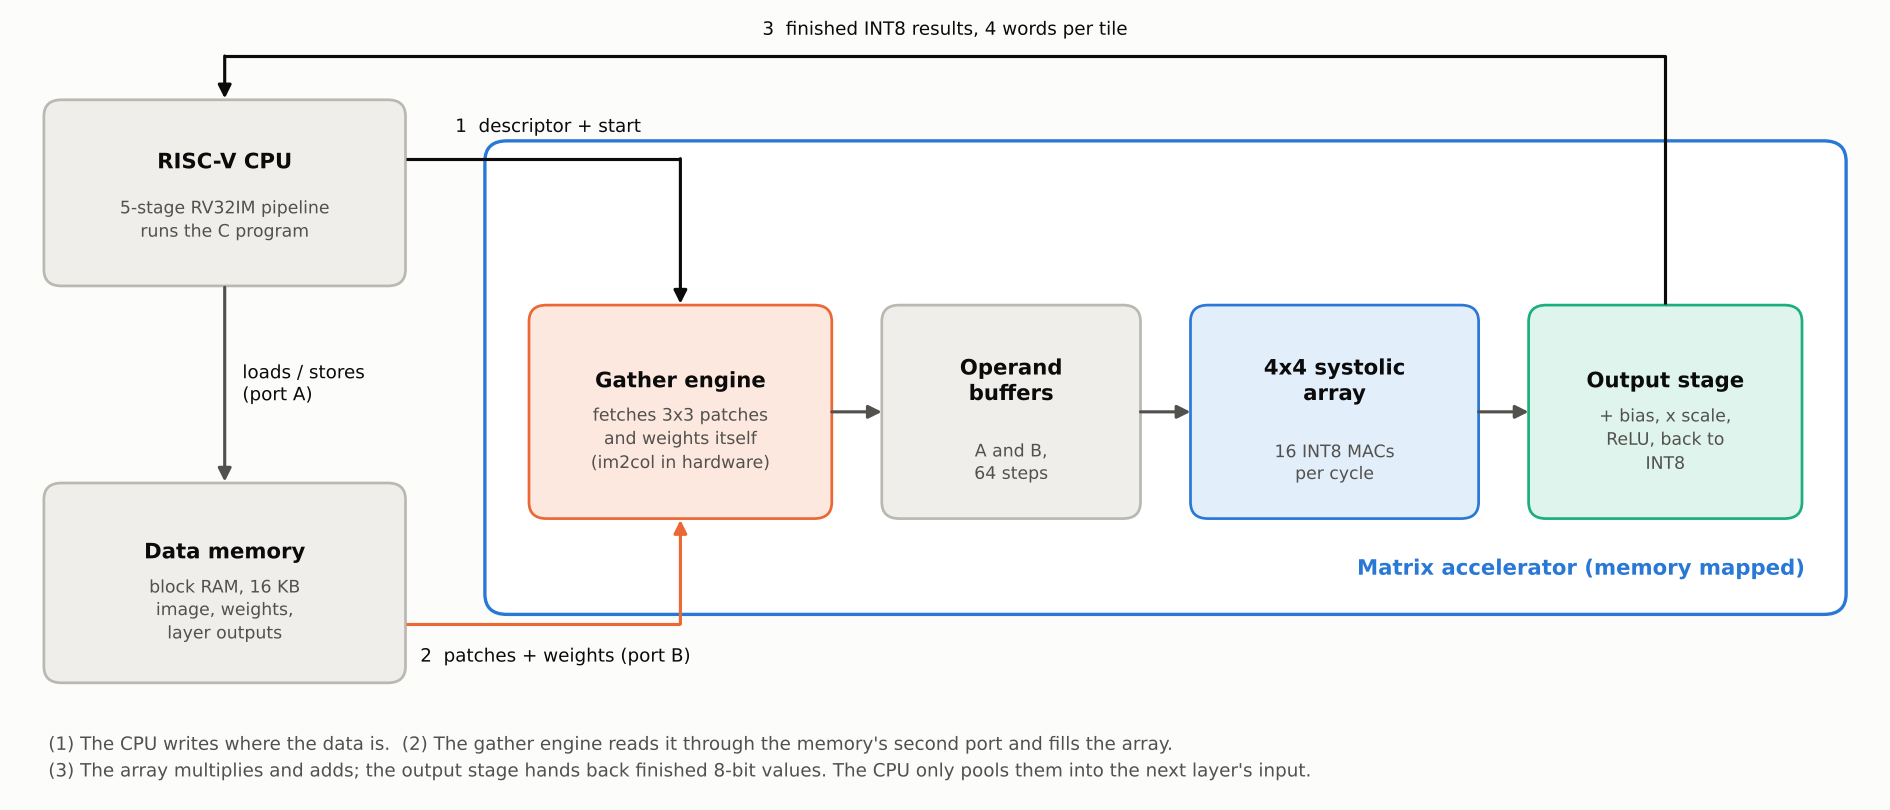
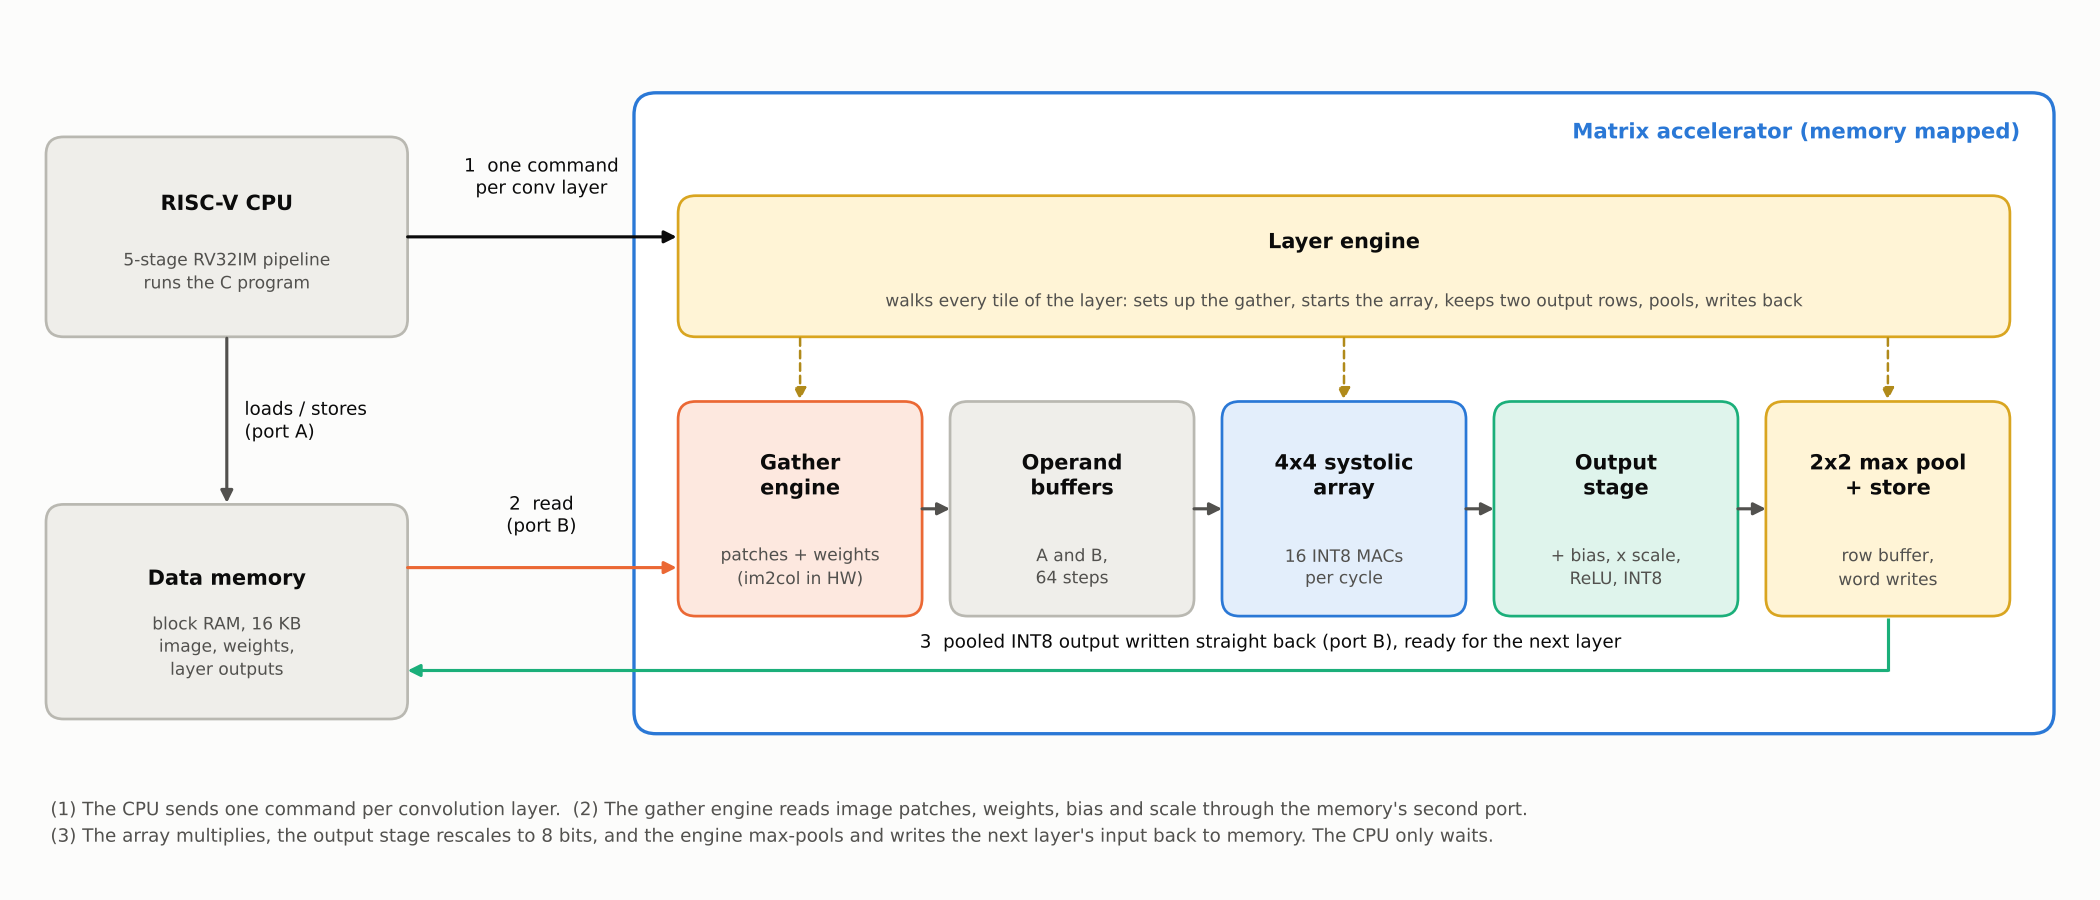
README: layer engine measured on the Basys 3 (26.3x, 1.68 ms per image)
Board output matches RTL simulation cycle for cycle and every score matches
the golden model. Updated the annotated board screenshot, the speedup chart
(layer-engine bar) and the data-flow diagram (layer engine, hardware pooling,
write-back over port B).

diff --git a/README.md b/README.md
@@ -12,7 +12,7 @@ UART console and a UART program loader, so new programs load in under a second w
 rebuilding the bitstream.
 
 Runs a **handwritten-digit recognition neural network** (INT8 CNN, 98.74 % on MNIST) on its own
-**systolic-array accelerator with a hardware gather engine**: **11.4x faster** than the CPU
+**systolic-array accelerator with a hardware layer engine**: **26.3x faster** than the CPU
 alone, measured on the board, with every output bit-identical to a Python golden model.
 
 Hardened into a **SkyWater 130 nm layout** (RTL to GDSII with LibreLane), and verified with two **UVM** environments on Cadence Xcelium (constrained-random programs checked
@@ -23,11 +23,11 @@ IMC), with planted bugs to prove the testbenches catch real failures.
 
 <table>
 <tr>
-<td width="50%"><img src="docs/images/nn/basys3_mnist_uart.png" alt="MNIST on the board"><br><b>A neural network on my CPU, measured on the Basys 3:</b> a small INT8 CNN recognises MNIST digits three ways: CPU only, accelerator fed by the CPU, accelerator with its gather engine. The hardware cycle counter times every layer; the board numbers are identical to RTL simulation and every score matches the Python golden model. <a href="#neural-network-on-the-soc-mnist">Details</a></td>
-<td width="50%"><img src="docs/images/nn/mnist_speedup.png" alt="speedup"><br><b>11.4x faster inference:</b> 44.1 ms per image on the CPU, 3.9 ms with the accelerator (258 images/s at 50 MHz). The first accelerator version was only 4.3x because the CPU spent its time moving data; measuring that is what led to the gather engine.</td>
+<td width="50%"><img src="docs/images/nn/basys3_mnist_uart.png" alt="MNIST on the board"><br><b>A neural network on my CPU, measured on the Basys 3:</b> a small INT8 CNN recognises MNIST digits four ways: CPU only, accelerator fed by the CPU, with its gather engine, and with its layer engine. The hardware cycle counter times every layer; the board numbers are identical to RTL simulation and every score matches the Python golden model. <a href="#neural-network-on-the-soc-mnist">Details</a></td>
+<td width="50%"><img src="docs/images/nn/mnist_speedup.png" alt="speedup"><br><b>26.3x faster inference:</b> 44.1 ms per image on the CPU, 1.68 ms with the accelerator (about 600 images/s at 50 MHz). The first accelerator version was only 4.3x because the CPU spent its time moving data; each step after that came from measuring where the cycles went (gather engine 11.4x, layer engine 26.3x).</td>
 </tr>
 <tr>
-<td colspan="2"><img src="docs/images/nn/accelerator_dataflow.png" alt="accelerator data flow"><br><b>What I built for it:</b> a gather engine that reads the image patches and weights straight from data memory through the block RAM's second port (convolution turned into matrix multiplication, "im2col", in hardware), and an output stage that adds the bias, rescales to 8 bits and applies ReLU. The CPU now only describes where the data is and pools the results.</td>
+<td colspan="2"><img src="docs/images/nn/accelerator_dataflow.png" alt="accelerator data flow"><br><b>What I built for it:</b> a layer engine that runs a whole convolution layer from one command: it drives a gather engine that reads image patches and weights straight from data memory through the block RAM's second port (convolution turned into matrix multiplication, "im2col", in hardware), an output stage that adds the bias, rescales to 8 bits and applies ReLU, and a 2x2 max pool that writes the next layer's input back to memory. The CPU sends one command per layer and waits.</td>
 </tr>
 <tr>
 <td width="50%"><img src="docs/images/asic/chip_full.png" alt="sky130 layout"><br><b>The core as a chip:</b> hardened on SkyWater 130 nm with LibreLane. 0.52 mm², about 18k cells, DRC/LVS clean, timing closed at 20 MHz in all corners. <a href="asic/riscv_cpu/README.md">Layout details</a></td>
@@ -63,8 +63,8 @@ IMC), with planted bugs to prove the testbenches catch real failures.
 | Software | GCC (`-march=rv32im`), linker script, startup code, small console library |
 | FPGA | Basys 3 (Artix-7 XC7A35T): MMCM clocking, UART console, 7-segment display, LEDs, switches, buttons |
 | Program loader | hardware UART loader with checksum: `python sw/load.py COM5 bench` |
-| Accelerator | 4x4 INT8 systolic array (16 MACs/cycle) with a **gather engine** (reads its own operands from data memory: im2col in hardware) and an **output stage** (bias, rescale, ReLU in hardware). 10.5x faster 32x32 matmul |
-| Neural network | INT8 CNN for MNIST (98.74 %), trained in NumPy, bit-exact C on the SoC: **11.4x** faster than the CPU on the board ([details](#neural-network-on-the-soc-mnist)) |
+| Accelerator | 4x4 INT8 systolic array (16 MACs/cycle) with a **layer engine** (one command per conv layer, 2x2 max pool in hardware), a **gather engine** (reads its own operands from data memory: im2col in hardware) and an **output stage** (bias, rescale, ReLU in hardware). 10.5x faster 32x32 matmul |
+| Neural network | INT8 CNN for MNIST (98.74 %), trained in NumPy, bit-exact C on the SoC: **26.3x** faster than the CPU on the board ([details](#neural-network-on-the-soc-mnist)) |
 | ASIC | Hardened on SkyWater 130 nm with LibreLane: 0.52 mm², DRC/LVS clean, timing closed at 20 MHz in all corners ([details](asic/riscv_cpu/README.md)) |
 | Verification | UVM on Xcelium + IMC: 48/48 riscv-tests in UVM, 17/17 regression tests pass, 100% functional coverage, SVA, bug injection |
 
@@ -131,7 +131,7 @@ steps takes K + 6 cycles. Details and design reasoning: [`docs/accelerator_notes
 | CPU + accelerator | 22,806 (**10.5x faster**, results identical) |
 
 About 90 % of the accelerated time is the CPU moving data in and out; the array computes for
-only ~2,400 cycles. That observation led to the gather engine below.
+only ~2,400 cycles. That observation led to the gather and layer engines below.
 
 ## Neural network on the SoC (MNIST)
 
@@ -153,16 +153,16 @@ must produce exactly its scores, bit for bit.
 becomes one row of a matrix A and each filter one column of B, so A x B is the convolution
 ("im2col", the way TPUs and NPUs run CNNs). The array computes 4 pixels x 4 filters at a time.
 
-**Three versions, measured on the Basys 3** (`sw/programs/mnist`, cycles per image from the
+**Four versions, measured on the Basys 3** (`sw/programs/mnist`, cycles per image from the
 hardware counter; identical to RTL simulation):
 
-| Layer | CPU only | Array fed by the CPU | Array + gather engine | Speedup |
-|---|---|---|---|---|
-| conv1 | 1,112,251 | 239,670 | **104,073** | 10.7x |
-| conv2 | 1,061,655 | 251,422 | **80,336** | 13.2x |
-| fully connected | 28,136 | 11,696 | **4,629** | 6.1x |
-| **Total** | **2,206,758** | **507,504 (4.3x)** | **193,754 (11.4x)** | |
-| Per image at 50 MHz | 44.1 ms | 10.2 ms | **3.9 ms (258 images/s)** | |
+| Layer | CPU only | Array fed by the CPU | + gather engine | + layer engine | Speedup |
+|---|---|---|---|---|---|
+| conv1 | 1,110,977 | 239,670 | 104,079 | **22,995** | 48.3x |
+| conv2 | 1,061,259 | 251,422 | 80,333 | **51,545** | 20.6x |
+| fully connected | 28,136 | 11,695 | 4,633 | **4,626** | 6.1x |
+| **Total** | **2,205,089** | 507,502 (4.3x) | 193,762 (11.4x) | **83,881 (26.3x)** | |
+| Per image at 50 MHz | 44.1 ms | 10.2 ms | 3.9 ms | **1.68 ms (about 600 images/s)** | |
 
 **How the speedup was found, step by step:**
 
@@ -175,6 +175,16 @@ hardware counter; identical to RTL simulation):
    second block-RAM port. The CPU writes a descriptor (start address, three nested loop counts
    and byte strides, and the gap between the 4 pixels) and one command; the engine builds the
    im2col patches, loads the weights and starts the run.
+4. **Layer engine (26.3x):** with the gather engine, the CPU still spent most of its time on
+   bookkeeping: one descriptor per tile, reading results back, pooling in software. The layer
+   engine takes one command per convolution layer (input, output, weights, bias, scale and the
+   layer shape) and walks every tile itself: it loads each filter group's bias and scale, issues
+   the gathers, keeps two output rows in a small buffer, max-pools them and writes the pooled
+   INT8 values straight back to data memory, which is the next layer's input.
+
+Where the remaining time goes (layer engine): about 62 % fetching operands, 21 % computing in the
+array, 17 % bookkeeping. conv2's 3x3x8 patch (72 steps) does not fit the 64-step operand
+buffers, so each patch is fetched once per group of 4 filters; bigger buffers are the next step.
 
 **Verification:**
 
@@ -182,11 +192,15 @@ hardware counter; identical to RTL simulation):
   scale. Half of the tiles load through the gather engine, from a memory model with random
   contents, with random descriptors and alignments. 3,000 tiles pass. Three bugs planted in the
   engine are all caught; one was missed at first, which led to a new test case.
-- **Software:** all three C versions match the golden model on all 10,000 test images (on the
+- **Layer engine:** `sw/programs/conv_test` runs 24 convolution layers with random shapes
+  (1 to 21 channels, 4 to 16 filters, rows up to 32 pixels, odd sizes, partial tiles) and random
+  data through the engine and checks every output byte against plain C. All 24 pass; a planted
+  bug in the pooling compare fails 23 of them, a scale off by one fails 3.
+- **Software:** all four C versions match the golden model on all 10,000 test images (on the
   PC, with a software model of the accelerator) and on the RTL and the board.
 - The full regression (riscv-tests, random programs, board tests, e-Yantra) still passes.
 
-| Basys 3 after the accelerator work | Before | Now |
+| Basys 3, gather-engine build (layer-engine figures to follow) | Before | Gather engine |
 |---|---|---|
 | Slice LUTs | 1,939 | 4,869 (23.4 %) |
 | Slice registers | 1,207 | 2,227 (5.4 %) |
@@ -357,11 +371,12 @@ Done:
 - [x] Handwritten-digit recognition: INT8 CNN (98.74 % on MNIST), bit-exact with a golden model
 - [x] Accelerator output stage (bias, rescale, ReLU) and gather engine (im2col in hardware):
       11.4x faster CNN inference, measured on the board
+- [x] Layer engine (one command per conv layer, max pool in hardware): 26.3x, measured on the board
 
 Next, in order:
 
-- [ ] **Faster accelerator:** double buffering (fetch the next tile while the array runs),
-      pooling in hardware, then an 8x8 array on DSP slices
+- [ ] **Faster accelerator:** 128-step operand buffers (fetch each conv2 patch once), double
+      buffering (fetch the next tile while the array runs), then an 8x8 array on DSP slices
 - [ ] **TFT display (2.4" SPI, tested on the board):** SPI controller on the memory map, C driver
 - [ ] **Live demo:** draw a digit with a USB mouse (or touch, once a touch controller is fitted),
       the board recognises it and shows CPU vs accelerator time on the display
